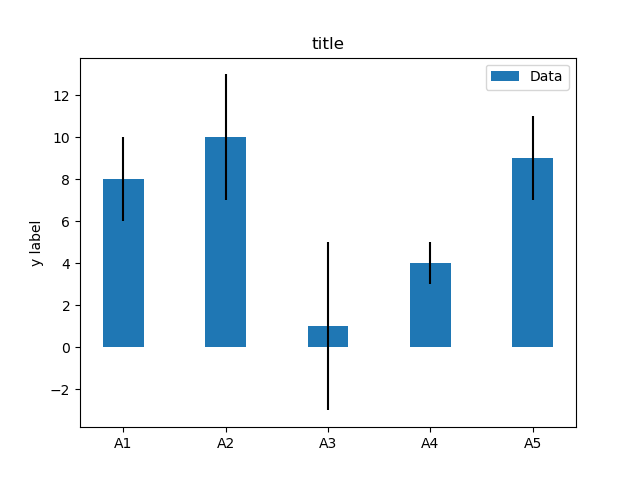
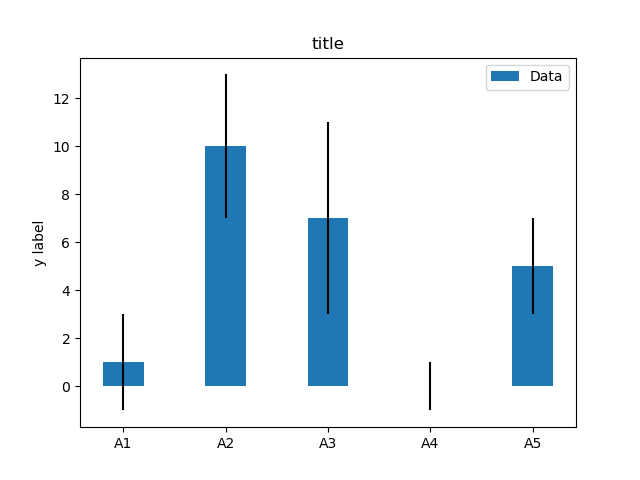
first commit

diff --git a/example.py b/example.py
@@ -2,7 +2,7 @@ import numpy as np
 import matplotlib.pyplot as plt
 
 labels = ['A1', 'A2', 'A3', 'A4', 'A5']
-m_means = [8,10,1,4,9]
+m_means = [1,10,7,0,5]
 m_std = [2, 3, 4, 1, 2]
 width = 0.40       # the width of the bars
 

diff --git a/README.md b/README.md
@@ -1,4 +1,4 @@
-# Matplotlib no 37 
+# Matplotlib no 38 
 
 python example
 
